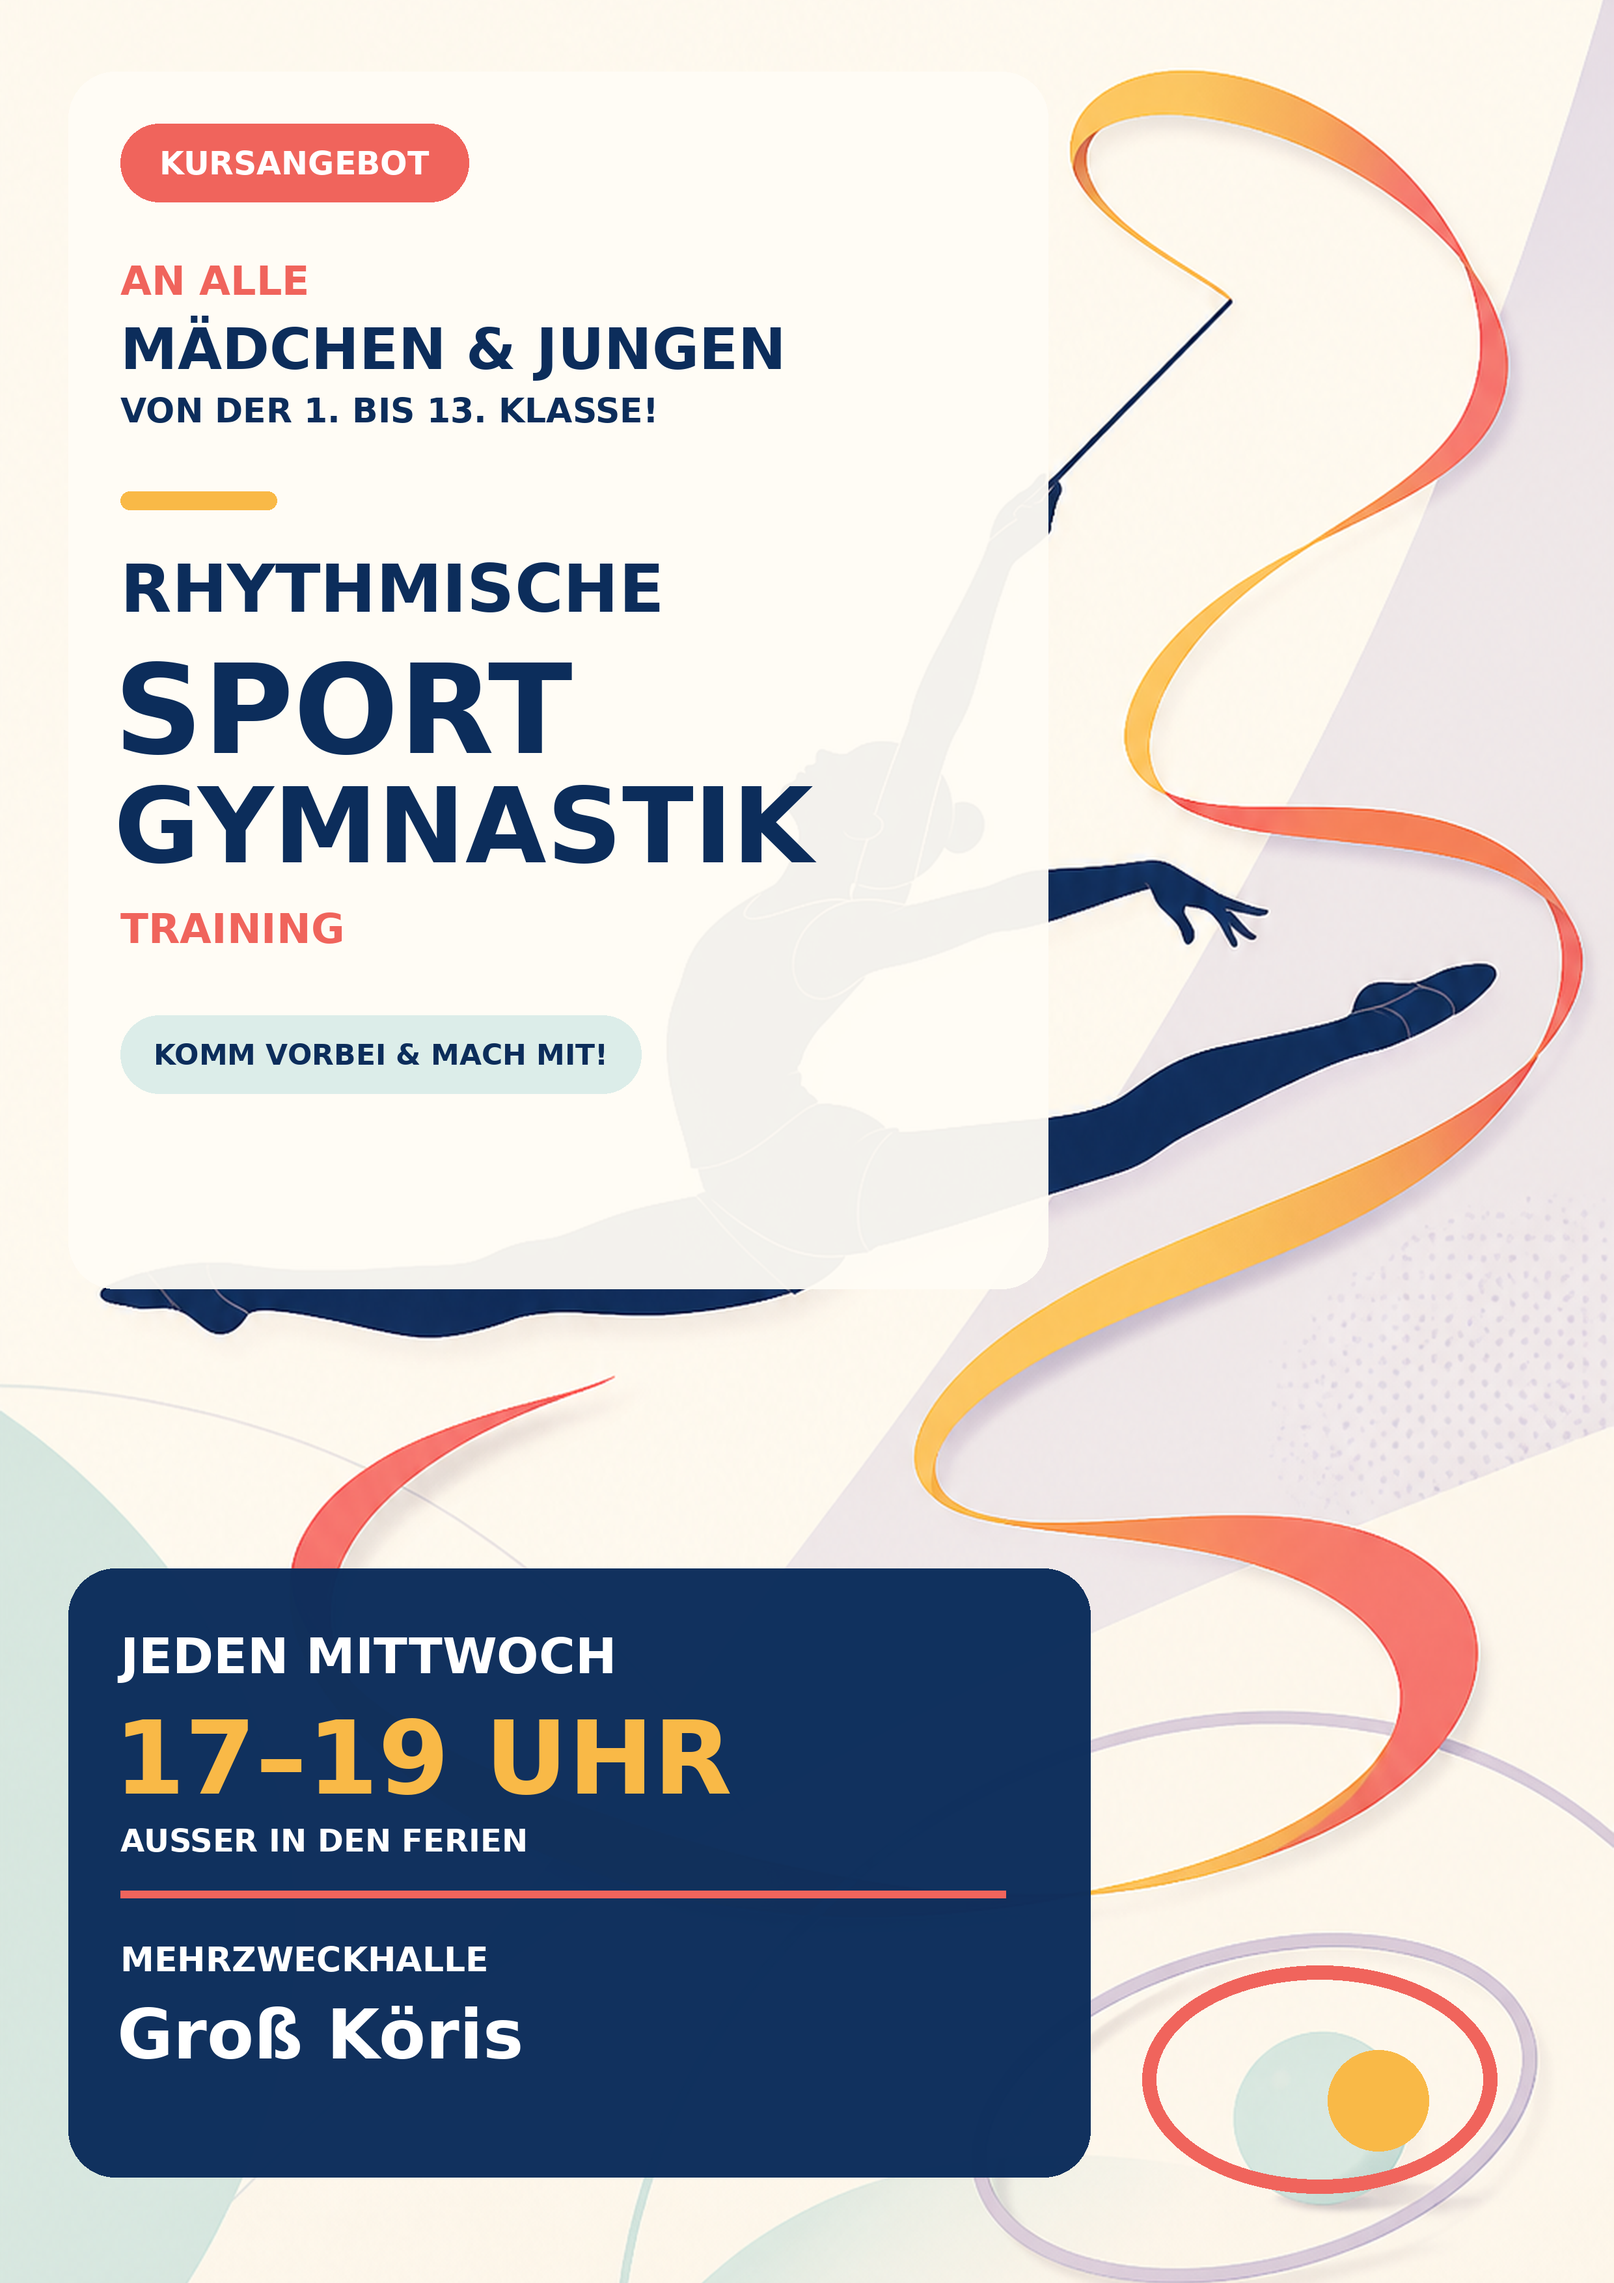
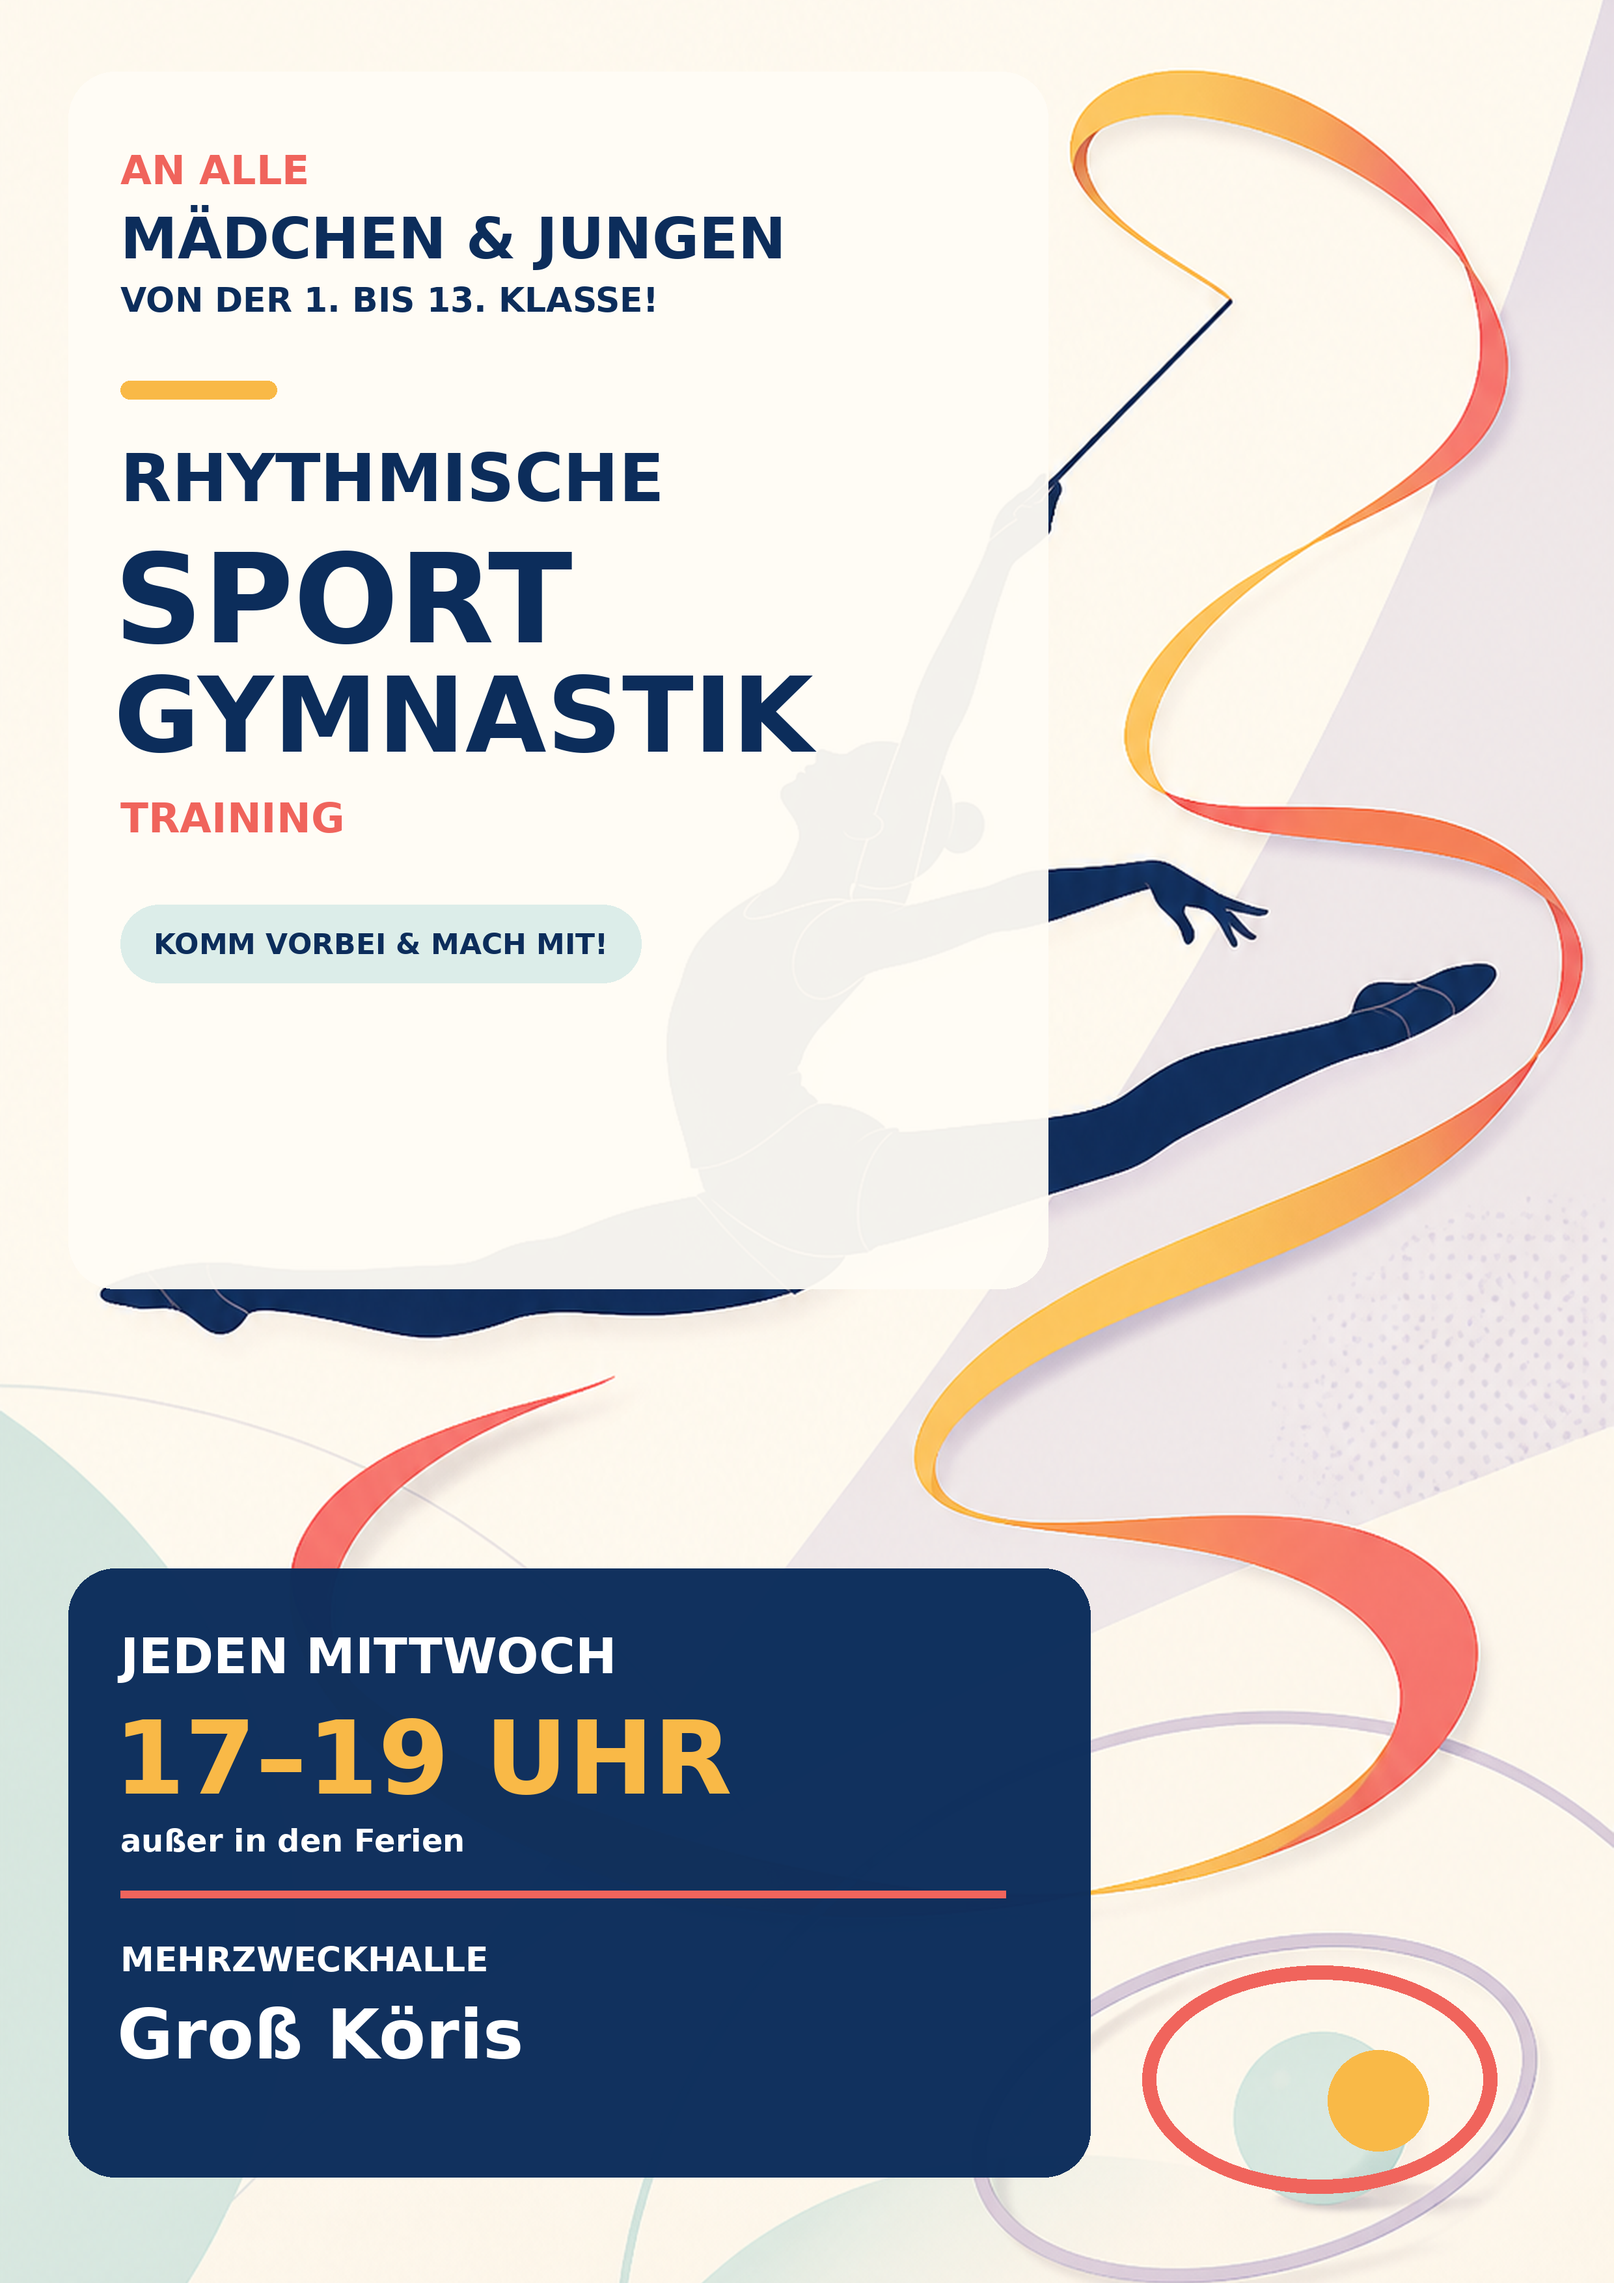
Refine poster heading and holiday note

Changed region(s): [[0.0621, 0.0311, 0.4968, 0.4971], [0.0931, 0.7768, 0.3105, 0.8079]]

diff --git a/scripts/create_poster.py b/scripts/create_poster.py
@@ -78,23 +78,20 @@ def create_poster() -> Image.Image:
     rounded_panel(background, (105, 110, 1610, 1980), 72, CREAM, 242)
     draw = ImageDraw.Draw(background)
 
-    draw.rounded_rectangle((185, 190, 720, 310), radius=60, fill=CORAL)
-    draw_centered(draw, (185, 190, 720, 310), "KURSANGEBOT", font(49, True), WHITE)
+    draw.text((185, 225), "AN ALLE", font=font(62, True), fill=CORAL)
+    draw.text((185, 315), "MÄDCHEN & JUNGEN", font=font(88, True), fill=NAVY)
+    draw.text((185, 430), "VON DER 1. BIS 13. KLASSE!", font=font(52, True), fill=NAVY)
 
-    draw.text((185, 395), "AN ALLE", font=font(62, True), fill=CORAL)
-    draw.text((185, 485), "MÄDCHEN & JUNGEN", font=font(88, True), fill=NAVY)
-    draw.text((185, 600), "VON DER 1. BIS 13. KLASSE!", font=font(52, True), fill=NAVY)
+    draw.rounded_rectangle((185, 585, 425, 613), radius=14, fill=GOLD)
+    draw.text((185, 675), "RHYTHMISCHE", font=font(102, True), fill=NAVY)
+    draw.text((175, 810), "SPORT", font=font(190, True), fill=NAVY)
+    draw.text((175, 1005), "GYMNASTIK", font=font(161, True), fill=NAVY)
+    draw.text((185, 1220), "TRAINING", font=font(63, True), fill=CORAL)
 
-    draw.rounded_rectangle((185, 755, 425, 783), radius=14, fill=GOLD)
-    draw.text((185, 845), "RHYTHMISCHE", font=font(102, True), fill=NAVY)
-    draw.text((175, 980), "SPORT", font=font(190, True), fill=NAVY)
-    draw.text((175, 1175), "GYMNASTIK", font=font(161, True), fill=NAVY)
-    draw.text((185, 1390), "TRAINING", font=font(63, True), fill=CORAL)
-
-    draw.rounded_rectangle((185, 1560, 985, 1680), radius=60, fill=MINT)
+    draw.rounded_rectangle((185, 1390, 985, 1510), radius=60, fill=MINT)
     draw_centered(
         draw,
-        (185, 1560, 985, 1680),
+        (185, 1390, 985, 1510),
         "KOMM VORBEI & MACH MIT!",
         font(44, True),
         NAVY,
@@ -105,7 +102,7 @@ def create_poster() -> Image.Image:
     draw = ImageDraw.Draw(background)
     draw.text((185, 2500), "JEDEN MITTWOCH", font=font(76, True), fill=WHITE)
     draw.text((175, 2610), "17–19 UHR", font=font(157, True), fill=GOLD)
-    draw.text((185, 2800), "AUSSER IN DEN FERIEN", font=font(48, True), fill=WHITE)
+    draw.text((185, 2800), "außer in den Ferien", font=font(48, True), fill=WHITE)
     draw.line((185, 2910, 1545, 2910), fill=CORAL, width=12)
     draw.text((185, 2980), "MEHRZWECKHALLE", font=font(52, True), fill=WHITE)
     draw.text((180, 3065), "Groß Köris", font=font(105, True), fill=WHITE)
